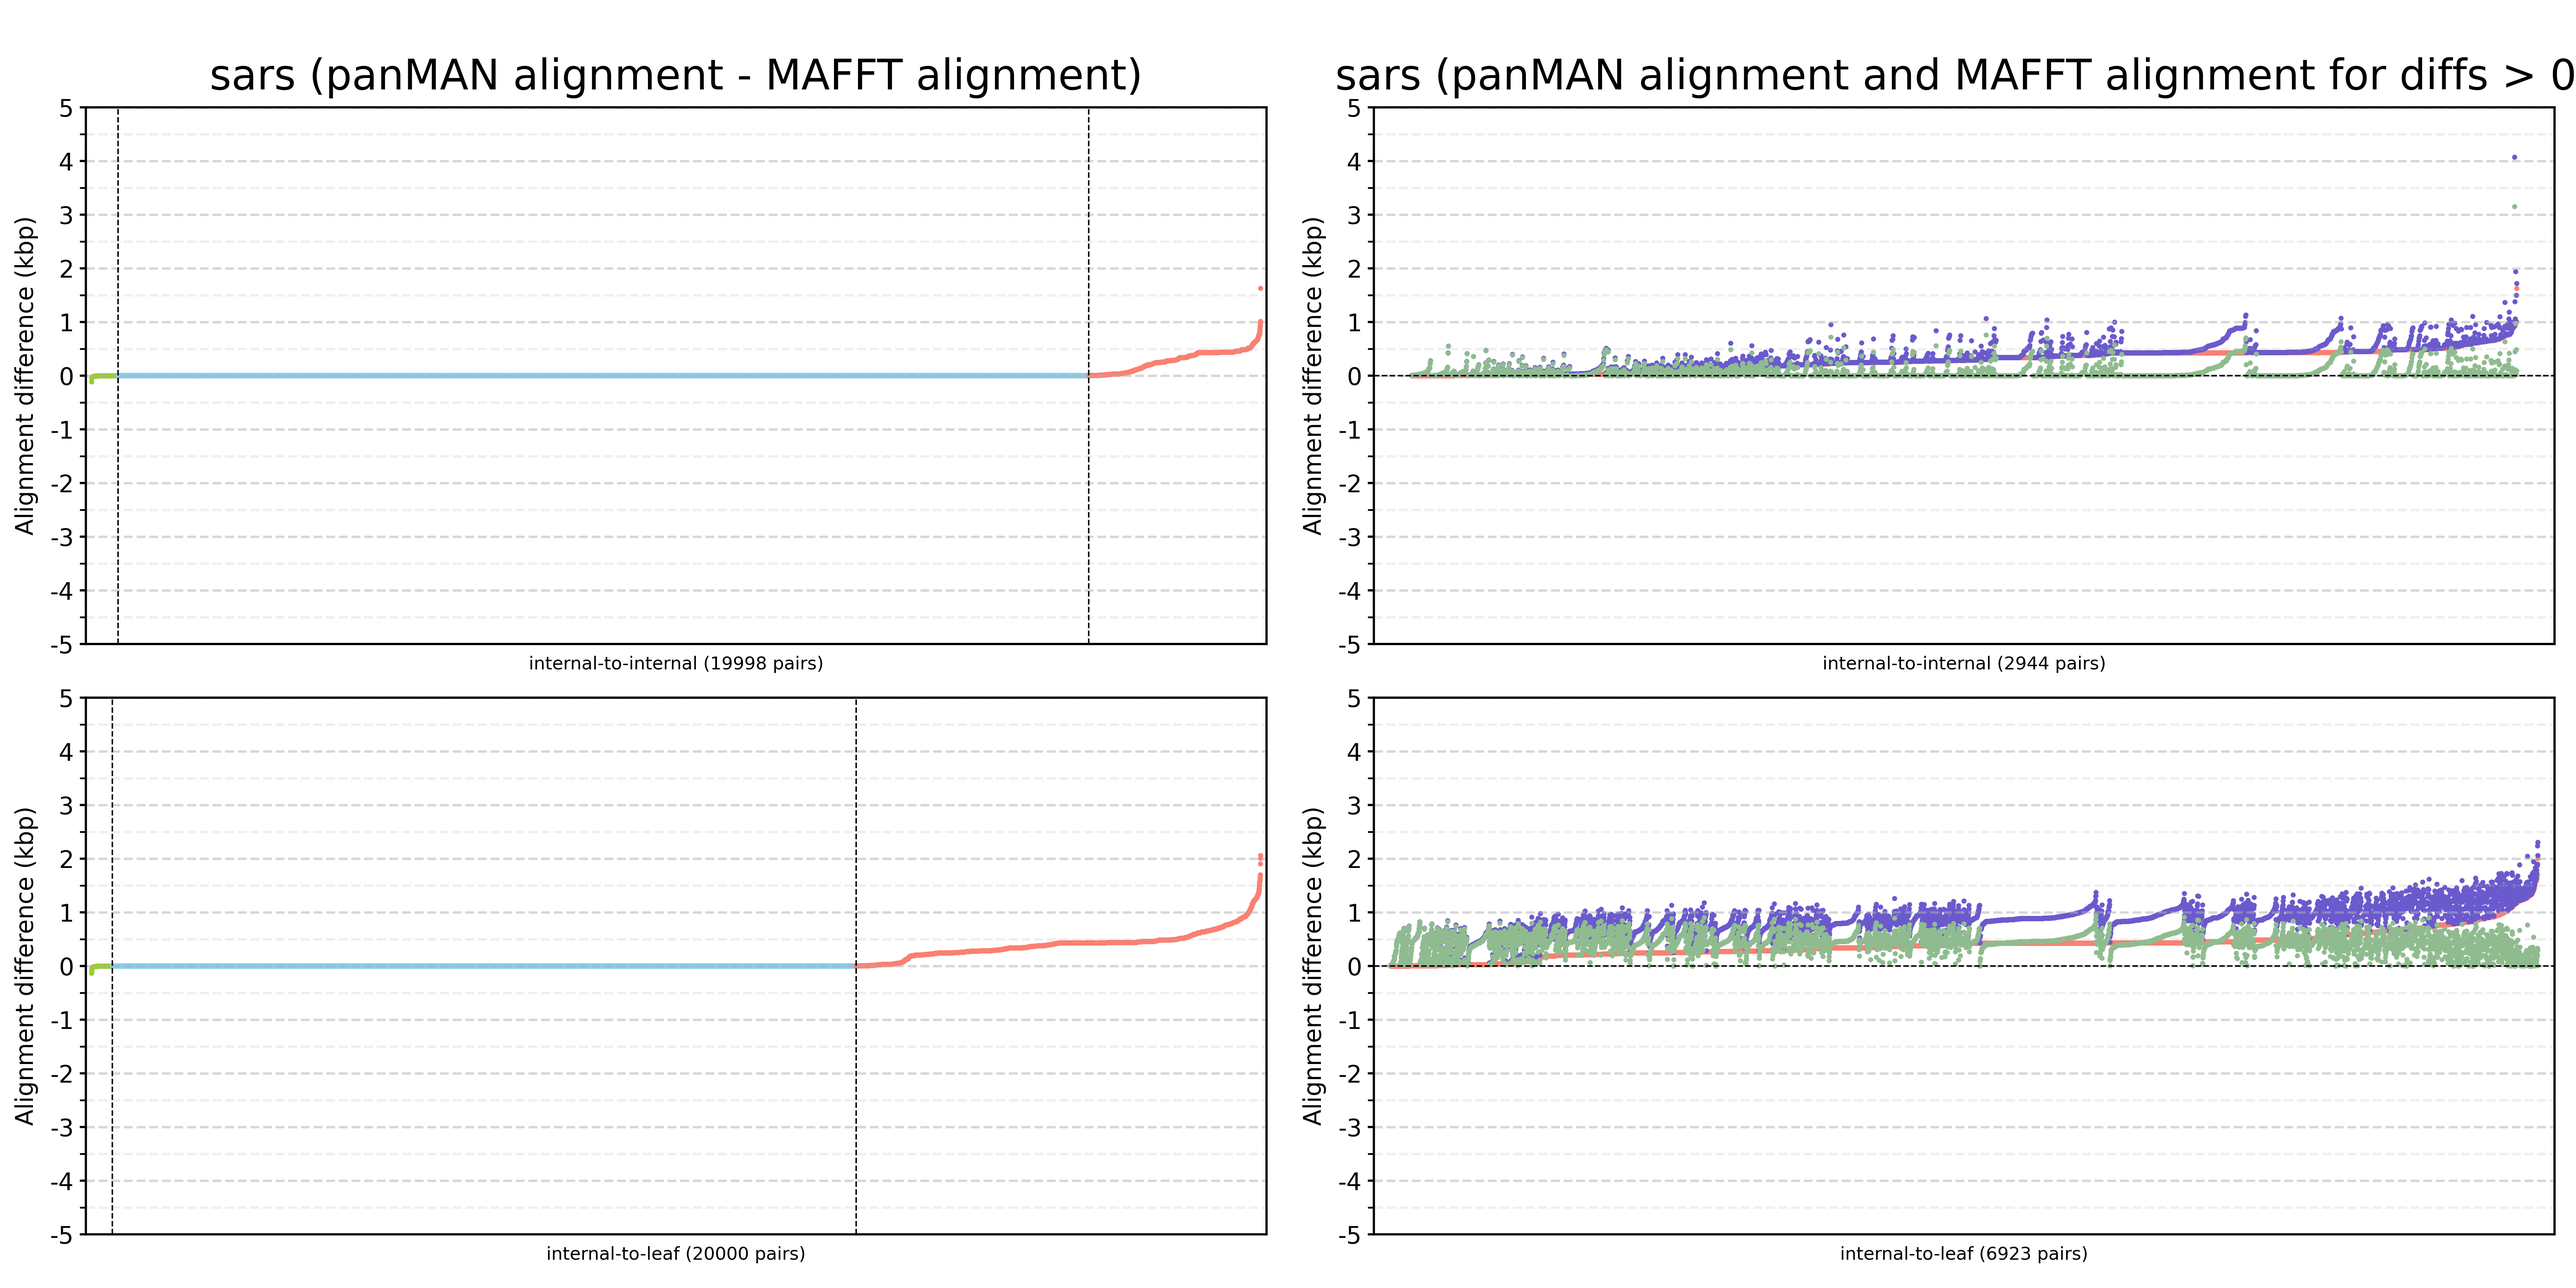
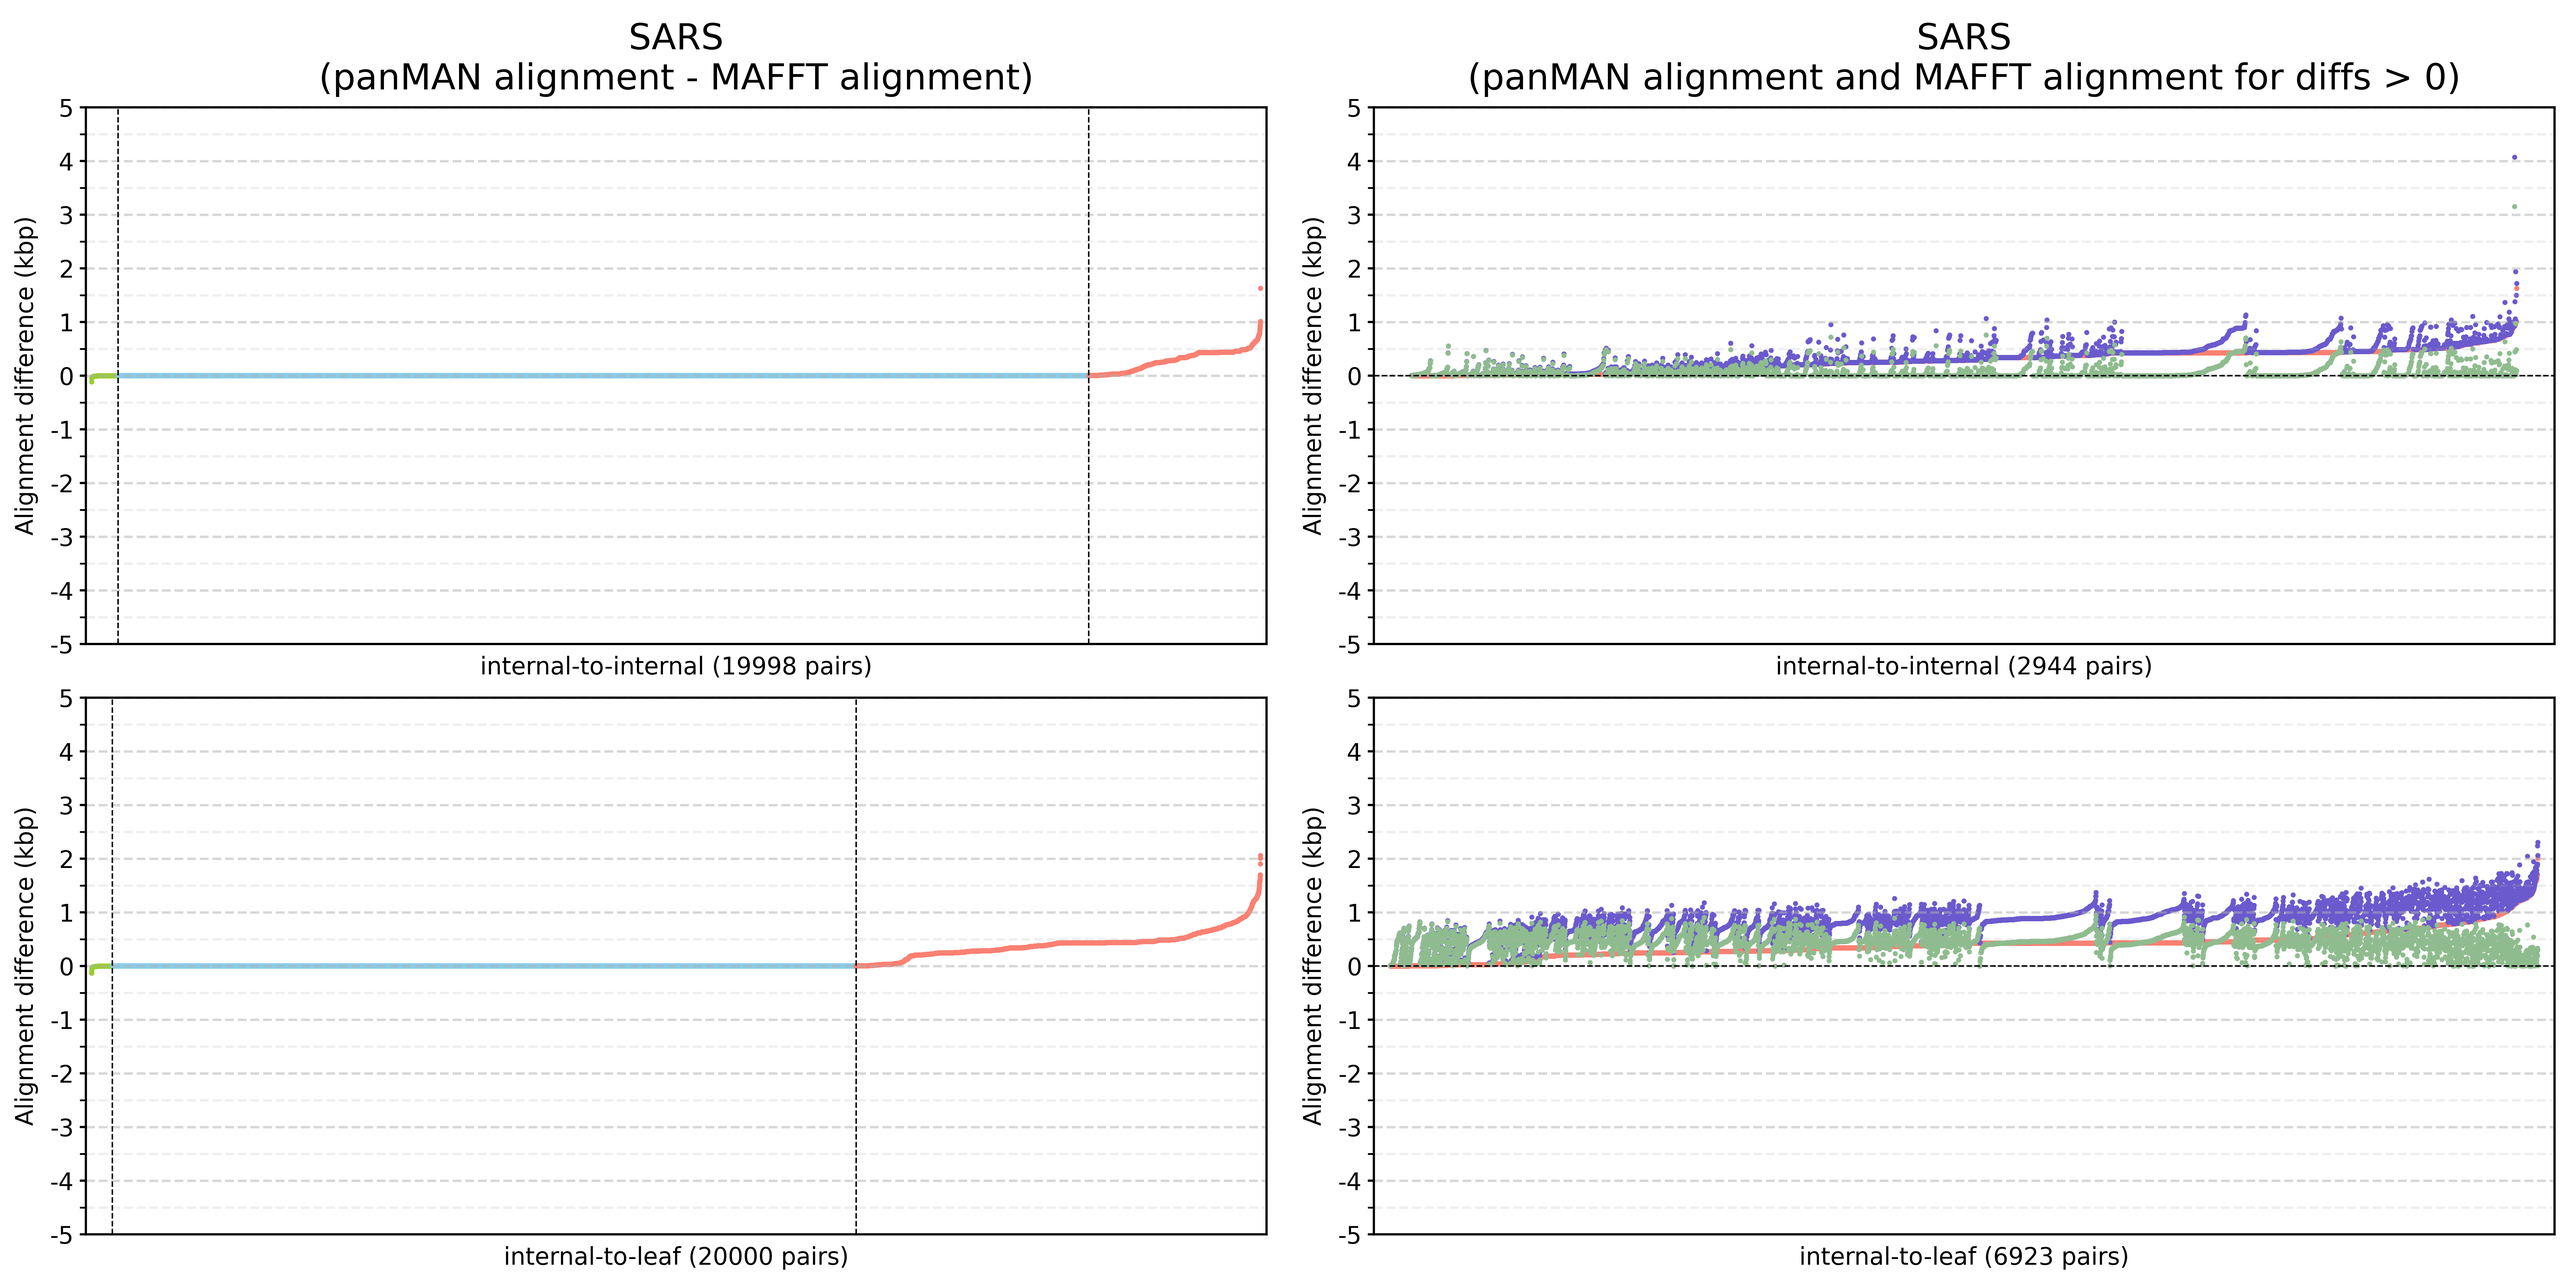
new

diff --git a/panmania/evaluate_alignments/plot_alignment_diff.py b/panmania/evaluate_alignments/plot_alignment_diff.py
@@ -92,7 +92,7 @@ for panel, diffs, cutoffs, xlabel in zip([internal_to_internal_panel, internal_t
   panel.set_yticklabels([f'{i}' for i in range(-ylim_kb, ylim_kb + 1)])
   panel.set_yticks([1000 * i for i in np.arange(-ylim_kb, ylim_kb, 0.5)], minor=True)
   panel.set_ylabel('Alignment difference (kbp)')
-  panel.set_xlabel(f'{xlabel} ({len(diffs)} pairs)', fontsize=6)
+  panel.set_xlabel(f'{xlabel} ({len(diffs)} pairs)', fontsize=8)
 
   panel.grid(True, which='both')
   panel.grid(which='minor', alpha=0.2, linestyle='--')
@@ -105,7 +105,7 @@ for panel, diffs, cutoffs, xlabel in zip([internal_to_internal_panel, internal_t
 internal_to_internal_colors = ['skyblue' if diff == 0 else 'yellowgreen' if diff < 0 else 'salmon' for diff in internal_to_internal_diffs]
 internal_to_leaf_colors = ['skyblue' if diff == 0 else 'yellowgreen' if diff < 0 else 'salmon' for diff in internal_to_leaf_diffs]
 
-internal_to_internal_panel.set_title(f'{title} (panMAN alignment - MAFFT alignment)', fontsize=14)
+internal_to_internal_panel.set_title(f'{title}\n(panMAN alignment - MAFFT alignment)', fontsize=12)
 
 internal_to_internal_panel.scatter(
   range(len(internal_to_internal_diffs)),
@@ -152,14 +152,14 @@ for panel, diffs, xlabel in zip([internal_to_internal_diff_panel, internal_to_le
   panel.set_yticklabels([f'{i}' for i in range(-ylim_kb, ylim_kb + 1)])
   panel.set_yticks([1000 * i for i in np.arange(-ylim_kb, ylim_kb, 0.5)], minor=True)
   panel.set_ylabel('Alignment difference (kbp)')
-  panel.set_xlabel(f'{xlabel} ({len(diffs)} pairs)', fontsize=6)
+  panel.set_xlabel(f'{xlabel} ({len(diffs)} pairs)', fontsize=8)
 
   panel.grid(True, which='both')
   panel.grid(which='minor', alpha=0.2, linestyle='--')
   panel.grid(which='major', alpha=0.5, linestyle='--')
   panel.plot([-100, len(diffs) + 100], [0, 0], color='black', linewidth=0.5, linestyle='--')
 
-internal_to_internal_diff_panel.set_title(f'{title} (panMAN alignment and MAFFT alignment for diffs > 0)', fontsize=14)
+internal_to_internal_diff_panel.set_title(f'{title}\n(panMAN alignment and MAFFT alignment for diffs > 0)', fontsize=12)
 
 internal_to_internal_diff_panel.scatter(
   range(len(internal_to_internal_diff_diffs)),

diff --git a/panmania/evaluate_alignments/compare_aligned_sequences.py b/panmania/evaluate_alignments/compare_aligned_sequences.py
@@ -5,12 +5,13 @@ import argparse
 parser = argparse.ArgumentParser(description='Compare two aligned sequences.')
 parser.add_argument('file1', help='First file containing the aligned sequence')
 parser.add_argument('file2', nargs='?', help='Second file containing the aligned sequence (optional)', default=None)
+parser.add_argument('--print_ranges', action='store_true', help='Print the ranges of mismatches')
 args = parser.parse_args()
+
 
 def read_two_sequences(fasta_file):
     sequences = []
     current_seq = []
-    
     with open(fasta_file) as f:
         for line in f:
             line = line.strip()
@@ -32,6 +33,25 @@ def read_two_sequences(fasta_file):
     
     return sequences[0], sequences[1]
 
+def merge_ranges(numbers):
+  if not numbers:
+    return []
+  
+  numbers = sorted(numbers)
+  ranges = []
+  start = numbers[0]
+  prev = numbers[0]
+  
+  for num in numbers[1:]:
+    if num > prev + 1:
+      ranges.append((start, prev))
+      start = num
+    prev = num
+  
+  ranges.append((start, prev))
+  
+  return ranges
+
 if args.file2:
   file1=args.file1
   file2=args.file2
@@ -46,5 +66,17 @@ else:
   seq1, seq2 = read_two_sequences(args.file1)
 
 assert(len(seq1) == len(seq2))
-differences = sum(1 for a, b in zip(seq1, seq2) if a != b)
-print(differences)
+mismatch_positions = []
+mismatch_count = 0
+for i, (a, b) in enumerate(zip(seq1, seq2)):
+  if a != b:
+    mismatch_count += 1
+    if args.print_ranges:
+      mismatch_positions.append(i)
+
+mismatch_ranges = merge_ranges(mismatch_positions)
+
+print(mismatch_count)
+if args.print_ranges:
+  for cur_range in mismatch_ranges:
+    print(f'{cur_range[1] - cur_range[0] + 1}\t{cur_range[0]}-{cur_range[1]}')

diff --git a/README.md b/README.md
@@ -141,8 +141,32 @@ The final figure is saved in `panmama/pseudo_chaining-vs-sequence_similarity/pse
 - [x] ~~Make a figure that illustrates the effectiveness of pseudo-chaining scores at discerning between sequences.~~ I don't think I'll do this anything. It's not important. Need to finish other stuff first.
 - [x] ~~Complete the alignment quality assessment for new panMANs.~~ *New sars20000 panman looks about the same as the old one. New rsv4000 panman looks **worse** than the old one*
 
+### Logistics and general work
+
+#### Meeting with Russ
+I talked a little about panMANIA then the consensus calling step with Russ. Russ gave a really good sugesstion on assuming there no back mutations. See notes below in `panMAMA` section.
+
 ### panMANIA
 
 I just plotted the alignment differences for the new SARS and RSV panMANs (HIV is skipped because it's taking too long. Seems like the aligned sequences in the new HIV panMAN are very long). The new SARS panMAN looks pretty identical to the old SARs panMAN but **the new RSV panMAN looks **worse** than the old one**. See `panmania/evaluate_alignments/README.md` for more details.
 
 Maybe it is worth to also fix the alignments in panMAN for Aim 2.
+
+Notes below need to be beautified and executed. This is a place holder so I don't forget
+
+*I have an idea to identify problematic block states. Will try to implement and see how it goes.*
+- *Record positions of mismatches in the panMAN alignment. Merge positions into ranges. Identify nearby ranges with identical lengths of mismatches.*
+- *Nearby ranges with identical lengths of mismatches are likely to be problematic block states.*
+- *Try to align those two ranges together and see how well they align.*
+
+
+### panMAMA
+
+Notes below need to be beautified and executed. This is a place holder so I don't forget
+
+*Russ has a good idea to call consensus*
+- *Assume there's not back mutation*
+- *If there is a cryptic mutation, assign that cryptic mutation heuristically*
+  - *If there are haplotypes where that cryptic mutation is assigned to that haplotype only, assign it.*
+  - *If not use maximum likelihood.*
+- *If no cryptic mutation, assign reference*
